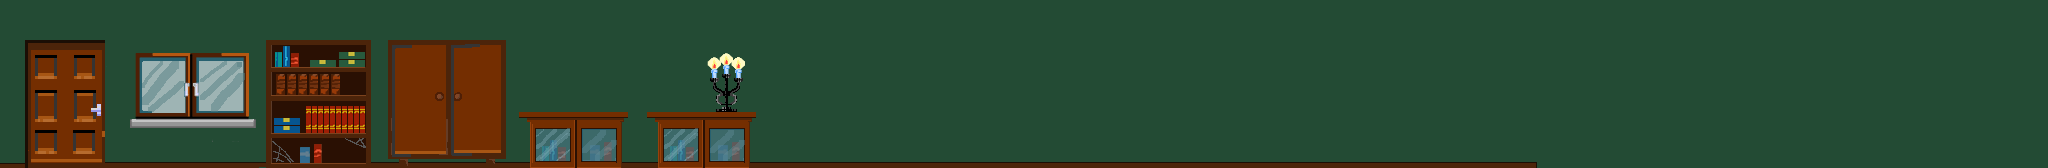
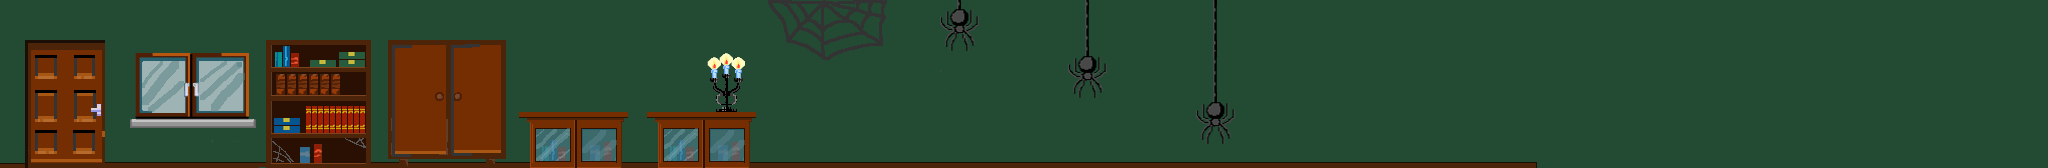
Add spider animation

Changed region(s): [[0.4375, 0.0595, 0.5, 0.2083], [0.5625, 0.625, 0.625, 0.7738], [0.5, 0.3571, 0.5625, 0.506]]

diff --git a/Sources/Blocks.cpp b/Sources/Blocks.cpp
@@ -89,6 +89,8 @@ namespace {
 	
 	bool inCloset = false;
 	
+	int spiderIndex = 0;
+	
 	void createPipeline() {
 		Graphics4::VertexStructure structure;
 		structure.add("vertexPosition", Graphics4::Float3VertexData);
@@ -179,6 +181,22 @@ namespace {
 			return false;
 		}
 	}
+	
+	bool animateSpider() {
+		int tile = tileset->getTileID(px + playerWidth / 2, py + playerHeight / 2);
+		
+		if (tile == Tileset::Spider1 || tile == Tileset::Spider2 || tile == Tileset::Spider3) {
+			int frames = 50;
+			spiderIndex++;
+			if (spiderIndex > frames) {
+				spiderIndex = 0;
+				tileset->animateSpider(px + playerWidth / 2, py + playerHeight / 2);
+			}
+			return true;
+		} else {
+			return false;
+		}
+	}
 
 	void update() {
 		Audio2::update();
@@ -230,6 +248,7 @@ namespace {
 		for (int i = 0; i < lightCount; ++i) {
 			lights[i] = vec2(-1000, -1000);
 		}
+		animateSpider();
 		tileset->drawTiles(g2, camX, camY, lights);
 		for (int i = 0; i < lightCount; ++i) {
 			lights[i] = vec2(lights[i].x() / w, lights[i].y() / h);

diff --git a/Sources/Tileset.cpp b/Sources/Tileset.cpp
@@ -80,7 +80,15 @@ void Tileset::drawTiles(Graphics2::Graphics2* g2, float camX, float camY, vec2* 
 			g2->drawScaledSubImage(image, column * tileWidth, row * tileHeight , tileWidth, tileHeight, x * tileWidth - camX, y * tileHeight - camY, tileWidth, tileHeight);
 		}
 	}
-	
+}
+
+void Tileset::animateSpider(float px, float py) {
+	spiderID = spiderID + as;
+	if (spiderID >= 2) as = -1;
+	else if (spiderID <= 0) as = +1;
+	int x = px / tileWidth;
+	int y = py / tileHeight;
+	source[y * (columns - 1) + x] = Spider1 + spiderID;
 }
 
 int Tileset::getTileID(float px, float py) {

diff --git a/Sources/Tileset.h b/Sources/Tileset.h
@@ -23,6 +23,9 @@ private:
 
 	Graphics4::Texture* image;
 	
+	int spiderID = 0;
+	int as = 1;
+	
 	void loadCsv(const char* csvFile, int rows, int columns);
 	
 public:
@@ -33,5 +36,7 @@ public:
 	int getTileID(float px, float py);
 	vec2 findDoor();
 	
-	enum TileID {Door = 0, Window = 1, Books = 2, Closet = 3, Table = 4, TableAndLamp = 5};
+	void animateSpider(float px, float py);
+	
+	enum TileID {Door = 0, Window = 1, Books = 2, Closet = 3, Table = 4, TableAndLamp = 5, SpiderWeb = 6, Spider1 = 7, Spider2 = 8, Spider3 = 9};
 };
